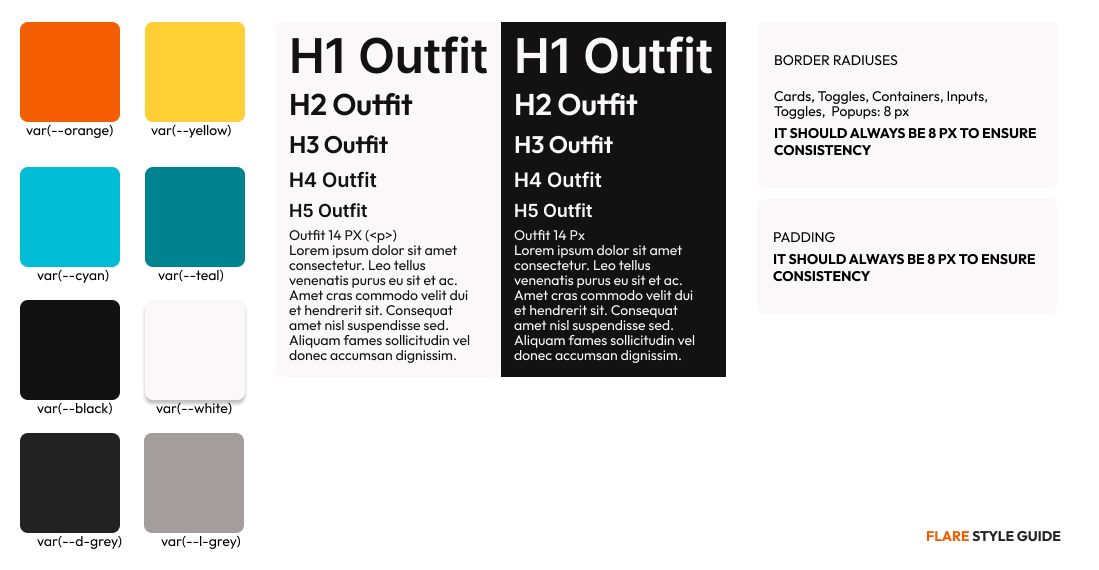
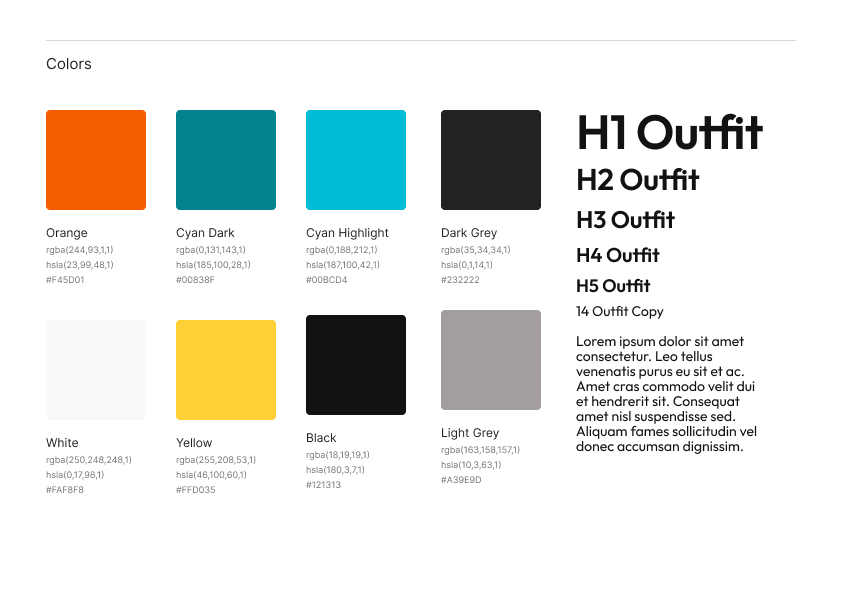
updated flare case study

diff --git a/src/main.jsx b/src/main.jsx
@@ -36,6 +36,13 @@ import flare_safety from "/src/public/assets/images/flare/Safety.png"
 import flare_settings from "/src/public/assets/images/flare/Settings.png"
 import flare_sol from "/src/public/assets/images/flare/flaresol.png"
 import flare_land from "/src/public/assets/images/flare/land.png"
+import flare_sona from "/src/public/assets/images/flare/flar_sona.png"
+import flare_sona_2 from "/src/public/assets/images/flare/flar_sona2.png"
+import flare_hifi from "/src/public/assets/images/flare/flar_hifi.png"
+import flare_hifi_2 from "/src/public/assets/images/flare/flar_hifi2.png"
+import flare_sitemap from "/src/public/assets/images/flare/flare_sitemap.png"
+import flare_comp from "/src/public/assets/images/flare/flare_competitive.png"
+
 
 
 //Charizard
@@ -170,45 +177,74 @@ const projects = [
     "images": [flare_mockup, flare_mockup2, flare_safety, flare_settings],
     "sections": [
       {
-        "heading": "1. Project Summary",
+        "heading": "Project Summary",
         "description": `Flare is an app targeted towards those who live in areas that lack the necessary resources for fire relief services. This app provides **informational** and **reliable** information about fires occurring in the Vancouver area.`,
         "image": [flare_mockup],
       },
       {
-        "heading": "2. Challenges",
+        "heading": "Challenges",
         "description": `
         
-* One of the core challenges for Flare was **cohesive design**. Being the first large project most team members were a part of it was difficult to coordinate proper design systems between frontend and backend, from visuals to micro-interactions.
----
-* Another obstacle was overall coordination, highlighting a difference between team members other work and this particular project. It made it much more difficult to properly pace the project.
+Wildfires are a frequent matter in the lower mainland, throughout winter until summer, they are often shown to cause real damage to a vast amount of people. This impact can range from lack of fast real-time information, knowledge of evacuation procedures and access to emergency resources.
 
         `,
         "image": [flare_mockup2],
       },
       {
-        "heading": "3. Solution",
+        "heading": "Solution",
         "description": `
         
-* The best solutions for cohesive design was to **create a single concise document** highlighting all the required colours and schema for components.
----
-* During the latter half of the project we were able to properly better discuss and coordinate times in which we could work. By setting expectations when **[x] feature** needed to be done ensured accountability across team members. 
+Flare is designed to be a user-friendly application that delivers real-time information about wildfires, safety resources and location-based updates. The app leverages a clean UI, accessible navigation and API integrations to ensure users receive timely and reliable information 
 
 `,
-        "image": [flare_sol],
+        "image": [],
       },
       {
-        "heading": "4. Design Process",
+        "heading": "Key Findings",
         "description": `
         
-By establishing the purpose of Flare, **we were able to ideate possible visuals that would resonate with the meaning of the app through mood boards**, providing peace of mind from wildfires. This process helped dictate the colours that were used in the app.
----
-The fonts chosen were based on **simplicity and readabliity** and how quickly users can understand what's going on.
----
-The rest of the designs were based off of pre-existing UI Kits with our style guide adapted to the components provided.
----
-
+- **Users prioritize real-time updates** over static safety resources.
+- **Visual clarity is essential** during emergencies—concise alerts and intuitive UI elements improve usability.
+- **Community-driven reports** help supplement official wildfire tracking data.
         `,
-        "image": [flare_land, flare_safety, flare_settings],
+        "image": [flare_sona, flare_sona_2],
+      },
+      {
+        "heading": "Competitive Analysis",
+        "description": `
+Analyzing existing wildfire tracking apps revealed gaps in usability and engagement. While some apps provide extensive data, they often lack an intuitive experience, making it difficult for users to access critical information quickly. Flare differentiates itself by focusing on **user experience, accessibility, and proactive safety measures.**
+        `,
+        "image": [flare_comp],
+      },
+      {
+        "heading": "Insights from Research",
+        "description": `
+- **Users need customizable alerts** based on their location and risk level.
+- **Educational resources** should be easy to digest, helping users prepare before wildfires occur.
+        `,
+        "image": [flare_hifi_2],
+      },
+      {
+        "heading": "Design Process",
+        "description": `
+1. **User Research** – Conducted surveys and analyzed user behavior to understand wildfire awareness gaps 
+2. **Wireframing & Prototyping** – Created low-fidelity sketches, followed by interactive prototypes using a UI design kit and Tailwind.
+3. **User Testing & Iteration** – Gathered feedback from testers to refine UI/UX and improve information hierarchy.
+        `,
+        "image": [flare_sitemap],
+      },
+      {
+        "heading": "HiFi and LoFi Prototypes",
+        "description": ``,
+        "image": [flare_hifi],
+      },
+      {
+        "heading": "Colour Palette",
+        "description": `
+A carefully selected palette reflecting warm tones (red, orange) for urgency, balanced with cool tones (blue, gray) for reliability and trust.
+Promotional Materials
+        `,
+        "image": [flare_sol],
       },
     ]
   },
